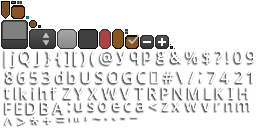
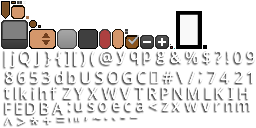
Rearranging and reskinning main menu

diff --git a/potatoes/src/main/java/com/deco2800/potatoes/gui/MainMenuGui.java b/potatoes/src/main/java/com/deco2800/potatoes/gui/MainMenuGui.java
@@ -39,6 +39,7 @@ public class MainMenuGui extends Gui {
     private ImageButton exitButton;
 
     private HorizontalGroup startButtonGroup;
+    private Table characterSelectTable;
     private Drawable singleplayerDrawable;
     private Drawable multiplayerDrawable;
     private Drawable backDrawable;
@@ -55,7 +56,8 @@ public class MainMenuGui extends Gui {
     private ImageButton multiplayerBackButton;
 
     private HorizontalGroup multiplayerClientButtonGroup;
-    private VerticalGroup multiplayerServerGroup;
+    private Table multiplayerServerTable;
+    private Table multiplayerClientInputsTable;
     private Drawable connectDrawable;
     private ScrollPane multiplayerServerScrollPane;
     private List<String> multiplayerServerList;
@@ -66,6 +68,7 @@ public class MainMenuGui extends Gui {
     private ImageButton multiplayerClientBackButton;
 
     private HorizontalGroup multiplayerHostButtonGroup;
+    private Table multiplayerHostInputsTable;
     private Label multiplayerHostIpAddress;
     private TextField multiplayerHostName;
     private ImageButton multiplayerHostConnectButton;
@@ -128,7 +131,11 @@ public class MainMenuGui extends Gui {
         startBackButton = new ImageButton(backDrawable);
 
         startButtonGroup = new HorizontalGroup();
-        startButtonGroup.addActor(startCharacterSelect);
+        characterSelectTable = new Table();
+        characterSelectTable.add(new Label("Player Type", uiSkin));
+        characterSelectTable.row();
+        characterSelectTable.add(startCharacterSelect).width(120).height(50);
+        startButtonGroup.addActor(characterSelectTable);
         startButtonGroup.addActor(singleplayerButton);
         startButtonGroup.addActor(multiplayerButton);
         startButtonGroup.addActor(startBackButton);
@@ -153,31 +160,42 @@ public class MainMenuGui extends Gui {
         multiplayerServerList = new List<String>(uiSkin);
         multiplayerServerScrollPane = new ScrollPane(multiplayerServerList, uiSkin);
         multiplayerFindServers = new TextButton("Find Server", uiSkin);
-        multiplayerClientName = new TextField("Client Name", uiSkin);
+        multiplayerClientName = new TextField("Fred", uiSkin);
         multiplayerClientIpAddConnection = new TextField(MainMenuScreen.multiplayerHostAddress(), uiSkin);
         multiplayerClientConnectButton = new ImageButton(connectDrawable);
         multiplayerClientBackButton = new ImageButton(backDrawable);
 
         multiplayerClientButtonGroup = new HorizontalGroup();
-        multiplayerServerGroup = new VerticalGroup();
-        multiplayerServerGroup.addActor(multiplayerServerScrollPane);
-        multiplayerServerGroup.addActor(multiplayerFindServers);
-        multiplayerClientButtonGroup.addActor(multiplayerServerGroup);
-        multiplayerClientButtonGroup.addActor(multiplayerClientName);
-        multiplayerClientButtonGroup.addActor(multiplayerClientIpAddConnection);
+        multiplayerServerTable = new Table();
+        multiplayerServerTable.add(multiplayerServerScrollPane).width(150).height(130).space(10);
+        multiplayerServerTable.row();
+        multiplayerServerTable.add(multiplayerFindServers).width(120).height(50);
+        multiplayerClientButtonGroup.addActor(multiplayerServerTable);
+        multiplayerClientInputsTable = new Table();
+        multiplayerClientInputsTable.add(new Label("Player Name", uiSkin));
+        multiplayerClientInputsTable.add(new Label("Host Address", uiSkin));
+        multiplayerClientInputsTable.row();
+        multiplayerClientInputsTable.add(multiplayerClientName);
+        multiplayerClientInputsTable.add(multiplayerClientIpAddConnection);
+        multiplayerClientButtonGroup.addActor(multiplayerClientInputsTable);
         multiplayerClientButtonGroup.addActor(multiplayerClientConnectButton);
         multiplayerClientButtonGroup.addActor(multiplayerClientBackButton);
-        multiplayerClientButtonGroup.space(50);
+        multiplayerClientButtonGroup.space(30);
 
         // Multiplayer Host state
-        multiplayerHostIpAddress = new Label("Host IP:  " + MainMenuScreen.multiplayerHostAddress(), uiSkin);
-        multiplayerHostName = new TextField("Host Name", uiSkin);
+        multiplayerHostIpAddress = new Label(MainMenuScreen.multiplayerHostAddress(), uiSkin);
+        multiplayerHostName = new TextField("Bob", uiSkin);
         multiplayerHostConnectButton = new ImageButton(connectDrawable);
         multiplayerHostBackButton = new ImageButton(backDrawable);
 
         multiplayerHostButtonGroup = new HorizontalGroup();
-        multiplayerHostButtonGroup.addActor(multiplayerHostIpAddress);
-        multiplayerHostButtonGroup.addActor(multiplayerHostName);
+        multiplayerHostInputsTable = new Table();
+        multiplayerHostInputsTable.add(new Label("Host Address", uiSkin));
+        multiplayerHostInputsTable.add(new Label("Player Name", uiSkin));
+        multiplayerHostInputsTable.row();
+        multiplayerHostInputsTable.add(multiplayerHostIpAddress);
+        multiplayerHostInputsTable.add(multiplayerHostName);
+        multiplayerHostButtonGroup.addActor(multiplayerHostInputsTable);
         multiplayerHostButtonGroup.addActor( multiplayerHostConnectButton);
         multiplayerHostButtonGroup.addActor(multiplayerHostBackButton);
         multiplayerHostButtonGroup.space(50);

diff --git a/potatoes/src/main/java/com/deco2800/potatoes/gui/PauseMenuGui.java b/potatoes/src/main/java/com/deco2800/potatoes/gui/PauseMenuGui.java
@@ -61,7 +61,7 @@ public class PauseMenuGui extends Gui {
 
         textureManager = GameManager.get().getManager(TextureManager.class);
 
-        uiSkin = new Skin(Gdx.files.internal("uiskin.json"));
+        uiSkin = new Skin(Gdx.files.internal("menu/uiskin.json"));
         table = new Table(uiSkin);
 
         // Make drawables from textures

diff --git a/potatoes/src/main/java/com/deco2800/potatoes/managers/SoundManager.java b/potatoes/src/main/java/com/deco2800/potatoes/managers/SoundManager.java
@@ -74,9 +74,6 @@ public class SoundManager extends Manager {
 	 */
 	public void setEffectsVolume(float v) {
 		effectsVolume = v;
-		if (music != null) {
-			music.setVolume(effectsVolume);
-		}
 	}
 
 	/**
